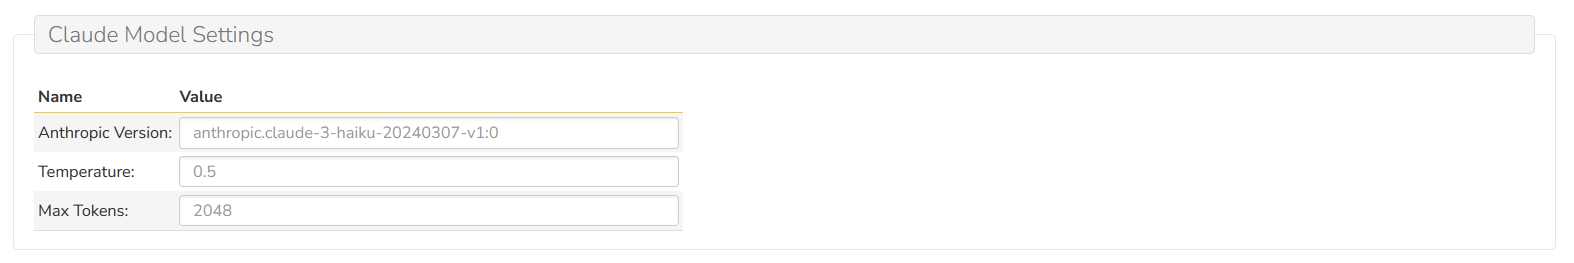
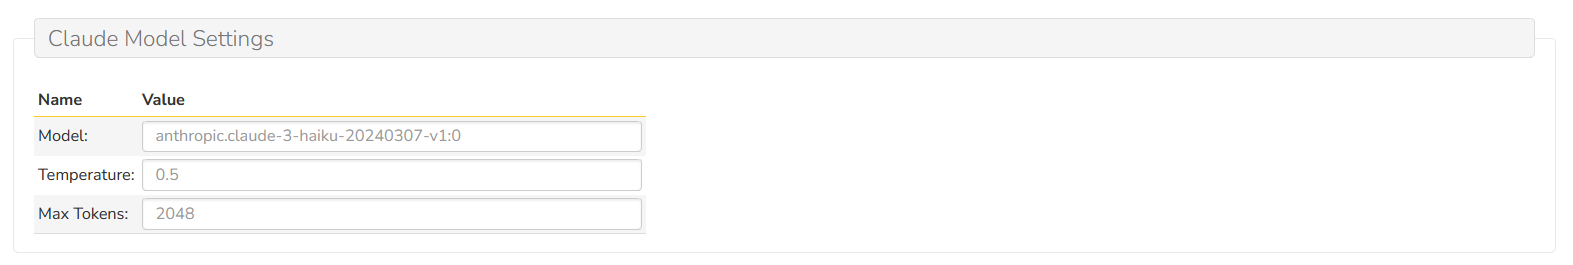
update claude settings

diff --git a/docs/SpiraApps/AWS-Bedrock.md b/docs/SpiraApps/AWS-Bedrock.md
@@ -20,6 +20,9 @@ By using this SpiraApp users will, by necessity, share information with AWS Bedr
     - [x] toolbar button on risk details page
     - [x] toolbar button on task details page
 
+## AWS Bedrock Setup
+TBD
+
 ## SpiraApp Setup
 ### System Settings
 - [x] Enter the AWS region you want to connect to. Leaving this setting blank uses the default region of `us-east-1`
@@ -45,21 +48,28 @@ This is where you can specify the general SpiraApp product settings:
 
 This is where you can specify settings specific to the Llama model:
 
-![product prompt settings](img/awsbedrock-product-settings-llama.png)
+![product llama settings](img/awsbedrock-product-settings-llama.png)
 
 | Setting name            | Default Value                                                                                                                         | Explanation                                                                                                                                                      |
 | ----------------------- | ------------------------------------------------------------------------------------------------------------------------------------- | ---------------------------------------------------------------------------------------------------------------------------------------------------------------- |
-| Temperature             | 0.2                                                                                                                                   | A number between 0 and 2, used to control the output's randomness. A higher temperature gives a more random output, a lower one give a more deterministic output |
-| Deployment Name                   | gpt-4o-mini                                                                                                                         | The name of the OpenAI model Deployment we want to use (not the model name, but the Deployment name you entered inside the Microsoft Azure control panel)                                                                                                                     |
-| Detailed Test Steps     | false                                                                                                                         | Should we create detailed test steps for test cases, or just a single step?                                                                                                                     |
-| Use Artifact Descriptions     | false                                                                                                                         | Should we use the artifact descriptions as well as the names in the prompts?                                                                   |
+| Model                   | meta.llama3-70b-instruct-v1:0                                                                                                                         | The name of the Llama model we want to use                                                                                                                     |
+| Temperature             | 0.2                                                                                                                                   | Use a lower value to decrease randomness in the response (minimum 0, maximum 1, default 0.5) |
+| Top p     | 0.9                                                                                                                         | Use a lower value to ignore less probable options. Set to 0 or 1.0 to disable (minimum 0, maximum 1, default 0.9)                                                                                                                     |
+| Max Generated Tokens     | 2048                                                                                                                         | Specify the maximum number of tokens to use in the generated response. The model truncates the response once the generated text exceeds (minimum 1, maximum 2048, default 2048)                                                 |
 
 
 #### Claude Model Settings
 
 This is where you can specify settings specific to the Claude model:
 
-![product prompt settings](img/awsbedrock-product-settings-claude.png)
+![product claude settings](img/awsbedrock-product-settings-claude.png)
+
+
+| Setting name            | Default Value                                                                                                                         | Explanation                                                                                                                                                      |
+| ----------------------- | ------------------------------------------------------------------------------------------------------------------------------------- | ---------------------------------------------------------------------------------------------------------------------------------------------------------------- |
+| Model                   | anthropic.claude-3-haiku-20240307-v1:0                                                                                                                         | The name of the Claude model we want to use                                                                                                                    |
+| Temperature             | 0.5                                                                                                                                   | Use a lower value to decrease randomness in the response (minimum 0, maximum 1, default 0.5) |
+| Max Tokens     | 2048                                                                                                                         | Specify the maximum number of tokens to use in the generated response. The model truncates the response once the generated text exceeds (minimum 1, maximum 4096, default 2048)                                             |
 
 
 
